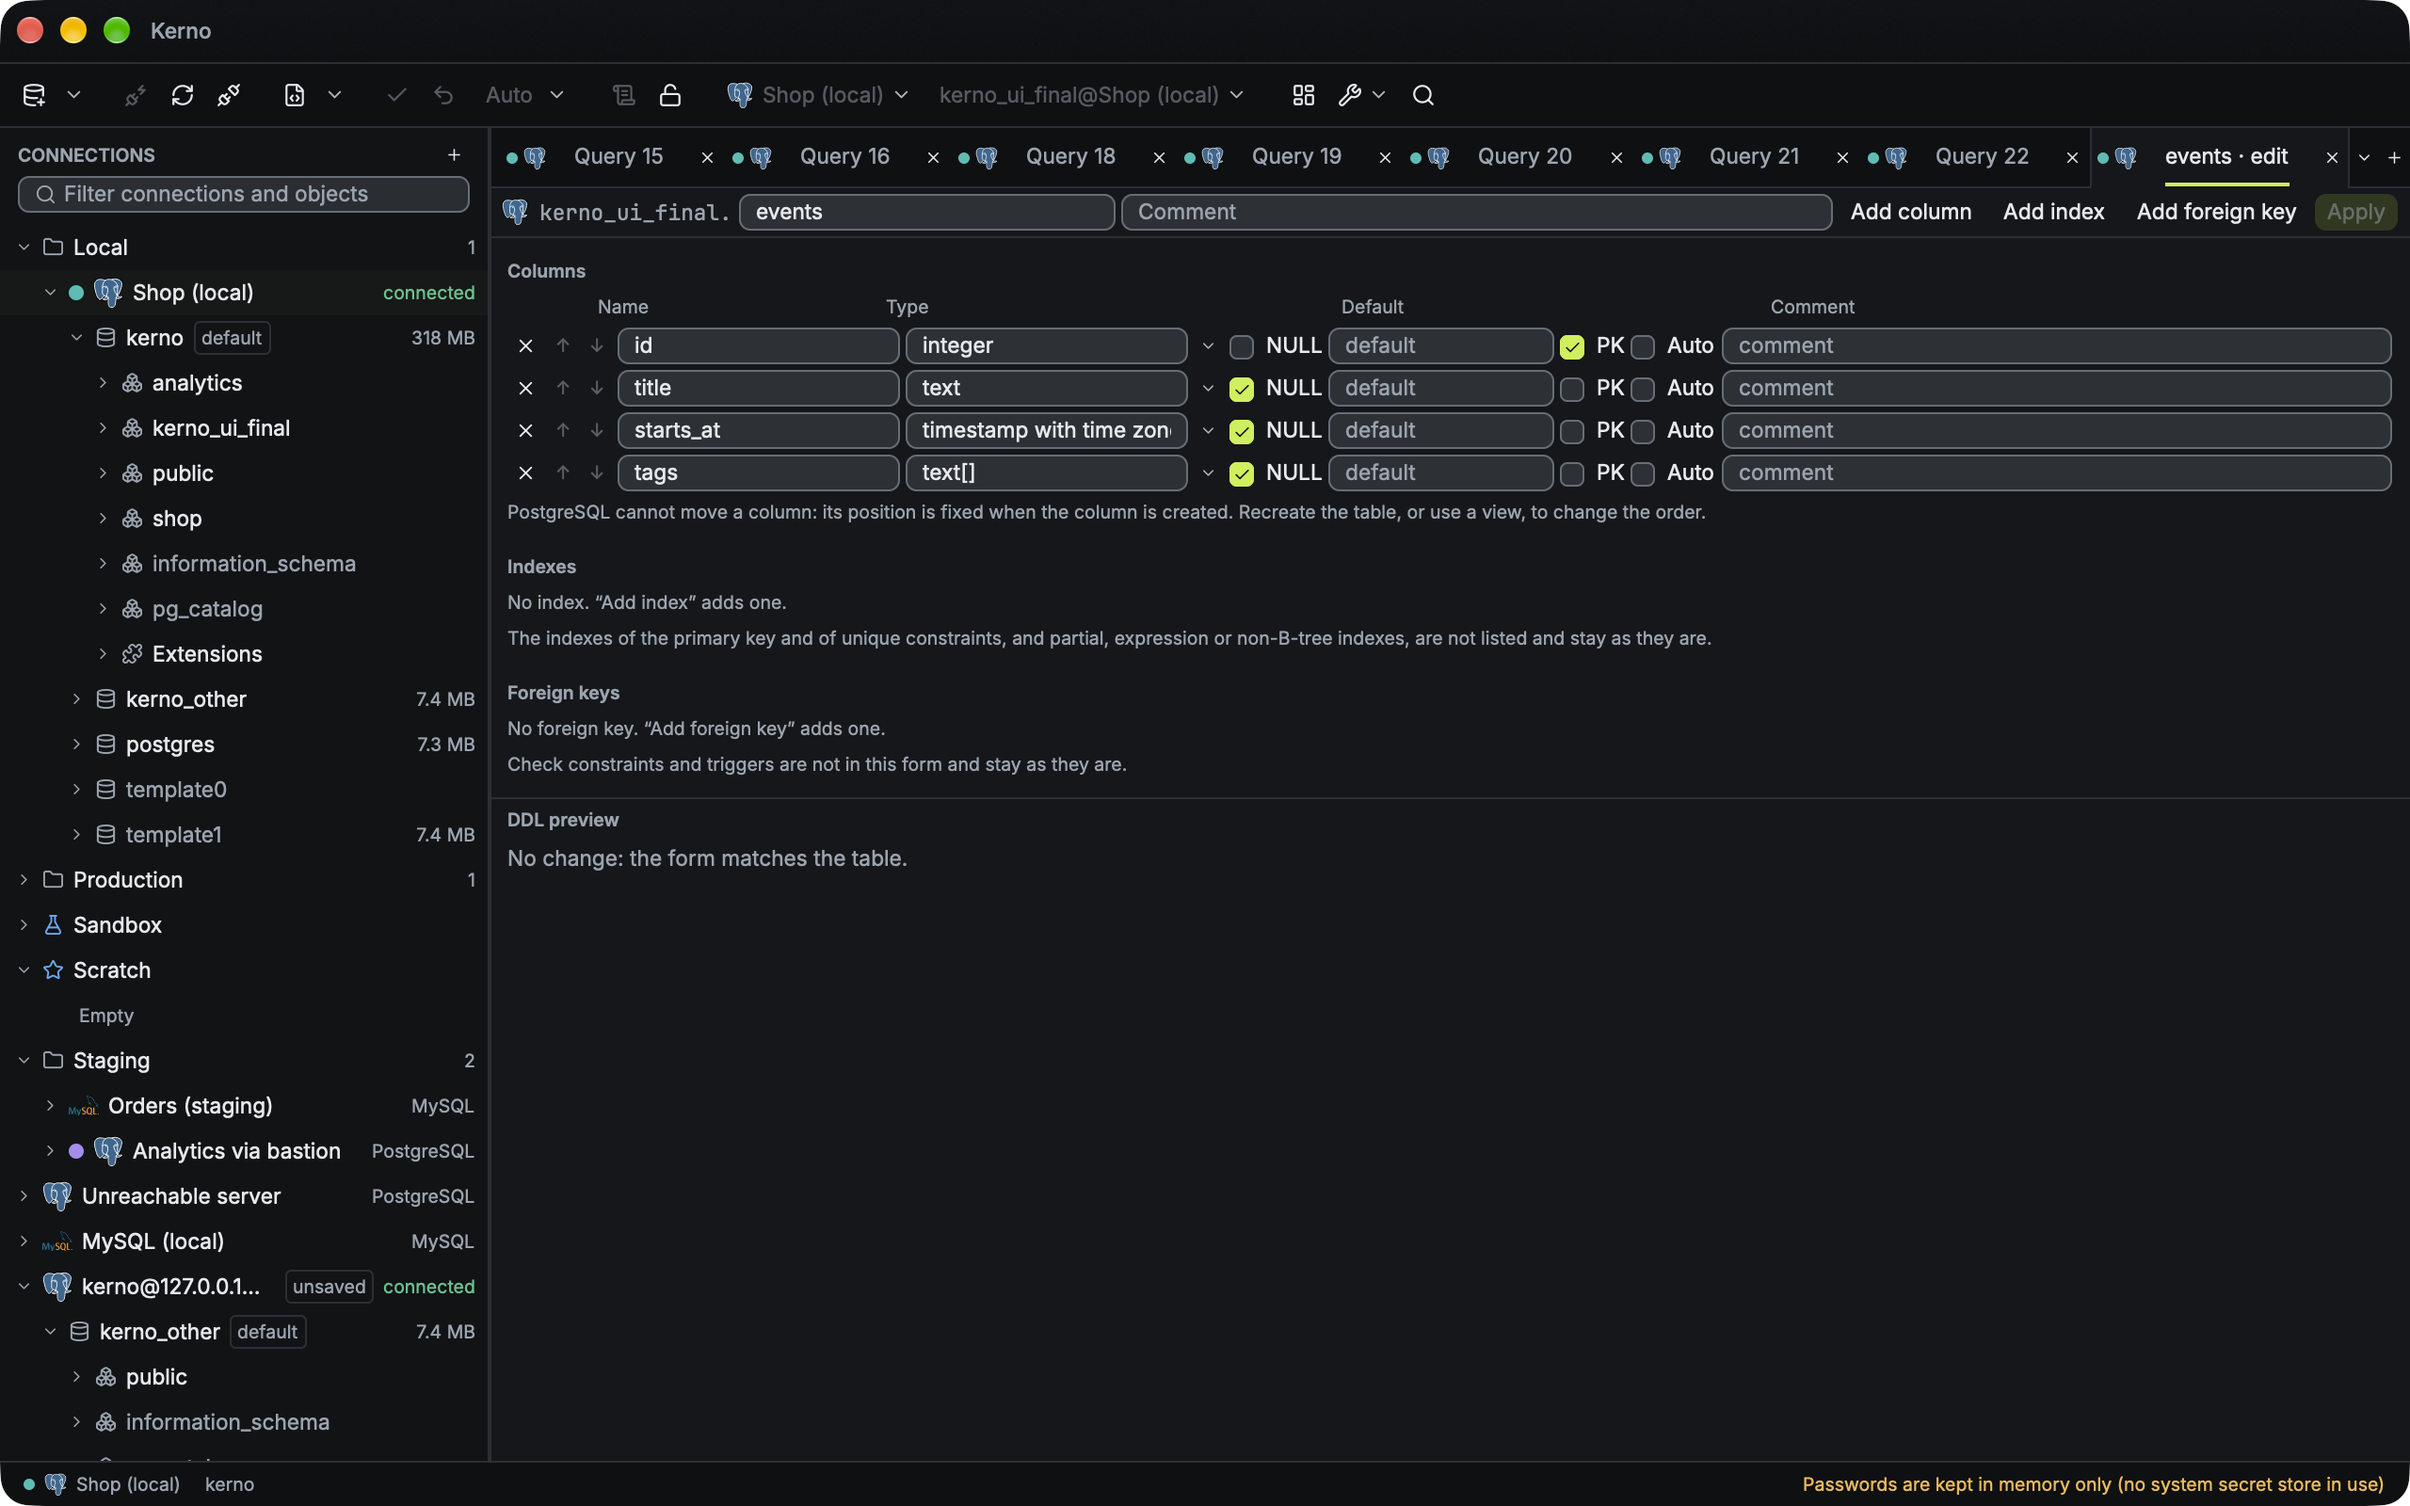
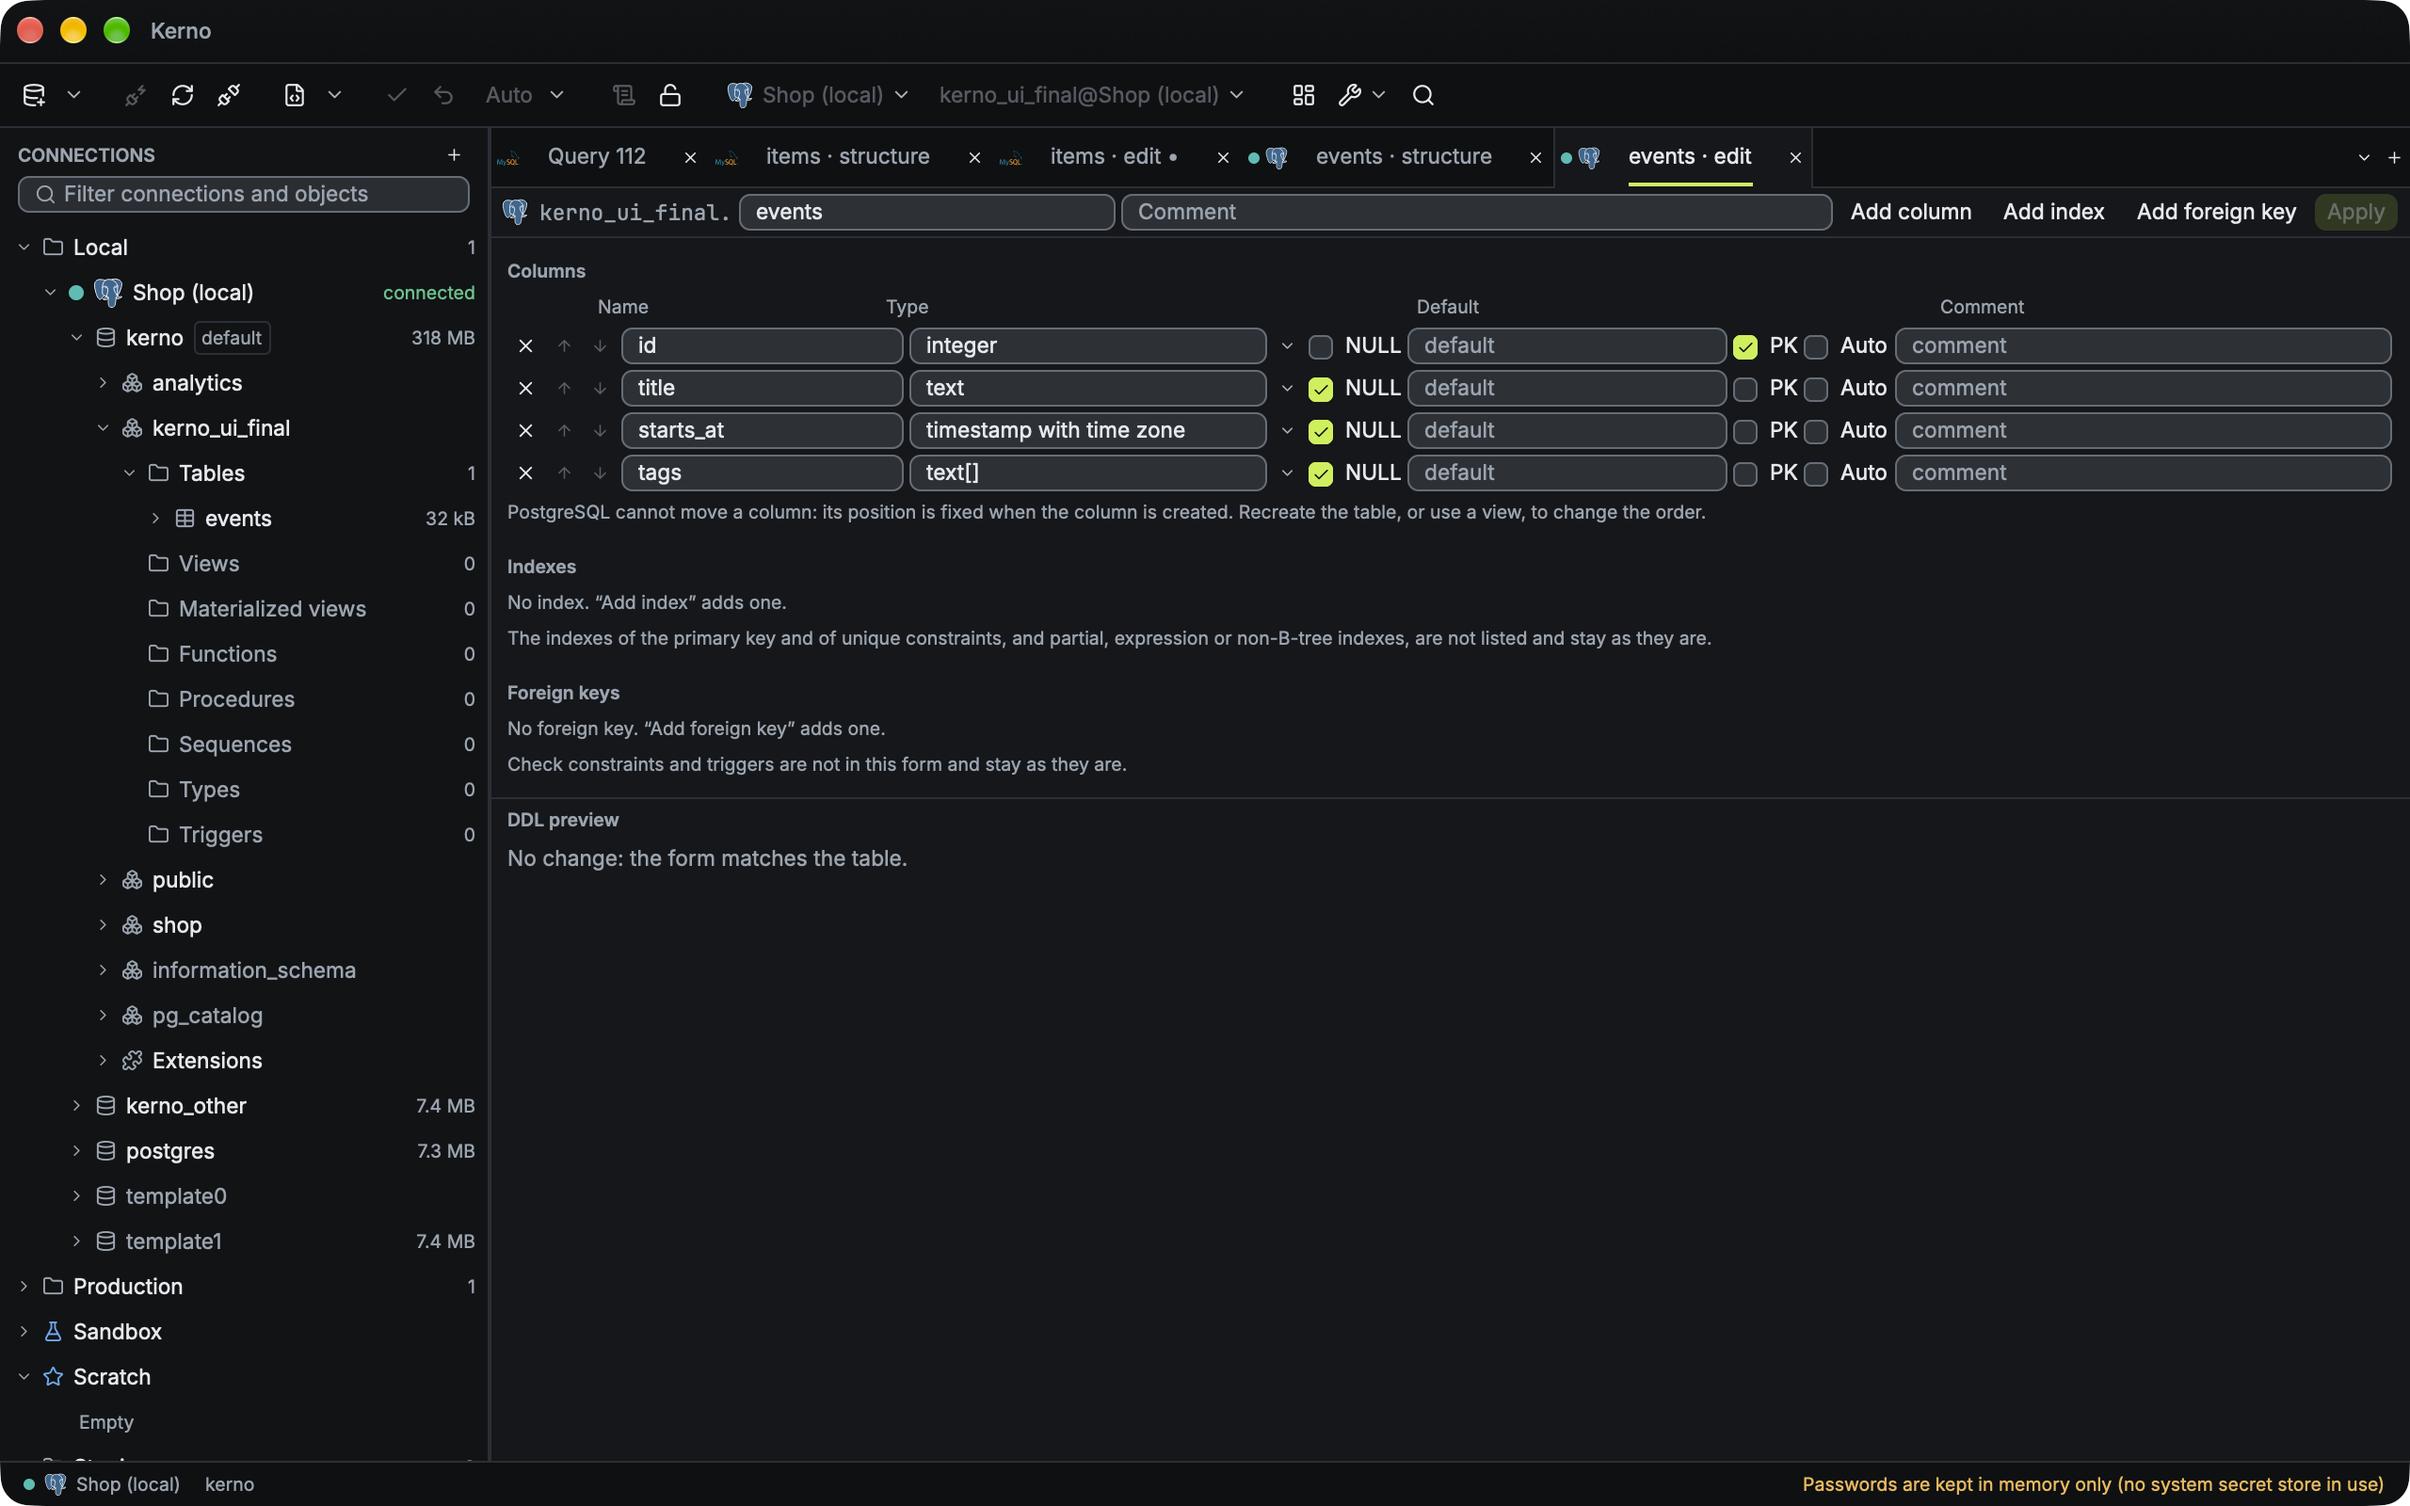
fix(ui): the active side tab is underlined like the strip's, the copy wizard's first column fits its header, plain punctuation in the AI endpoint suggestions; v1.1 captures, second pass
Claude-Session: https://claude.ai/code/session_01NqMSmdUNsq6S4HrmKZnkEG

diff --git a/crates/kerno/src/workspace.rs b/crates/kerno/src/workspace.rs
@@ -3681,13 +3681,13 @@ impl Workspace {
         });
         // The active tab's accent marker under its title: olive on light,
         // Lime on dark (the theme's primary).
-        let marker = if underline && index == self.active_tab {
+        let marker = if index == self.active_tab {
             cx.theme().primary
         } else {
             cx.theme().transparent
         };
-        // In the side list (no underline) the title may be cut: it ends in
-        // an ellipsis, on the element that holds the text.
+        // In the side list (`underline` false) the title may be cut: it ends
+        // in an ellipsis, on the element that holds the text.
         let text = div()
             .when(!underline, |text| text.min_w_0().truncate())
             .child(tab.label(cx));
@@ -3696,7 +3696,10 @@ impl Workspace {
             .h_full()
             .flex()
             .items_center()
-            .when(underline, |title| title.border_b_2().border_color(marker))
+            // The active tab's mark is the same in every layout: a line
+            // under its title (never a bar at the row's edge).
+            .border_b_2()
+            .border_color(marker)
             .when(!underline, |title| title.min_w_0())
             .test_support()
             .context_menu(self.menu(MenuOf::Tab(index), cx))

diff --git a/crates/kerno/src/transfer_dialog.rs b/crates/kerno/src/transfer_dialog.rs
@@ -1375,7 +1375,7 @@ impl TransferDialog {
                     .gap_2()
                     .text_xs()
                     .text_color(theme.muted_foreground)
-                    .child(div().w(px(24.)).child("Copy"))
+                    .child(div().w(px(32.)).flex_none().child("Copy"))
                     .child(div().w(px(200.)).child("Source column"))
                     .child(div().w(px(160.)).child("Target name"))
                     .child(div().w(px(160.)).child("Target type")),
@@ -1398,7 +1398,7 @@ impl TransferDialog {
                                 h_flex()
                                     .gap_2()
                                     .child(
-                                        div().w(px(24.)).child(
+                                        div().w(px(32.)).flex_none().child(
                                             Checkbox::new(("transfer-skip", index))
                                                 .checked(!column.skip)
                                                 .on_click(cx.listener(

diff --git a/crates/kerno/src/ai_view.rs b/crates/kerno/src/ai_view.rs
@@ -1046,7 +1046,7 @@ impl Render for AiSettingsView {
                             Button::new(("ai-suggestion", index))
                                 .ghost()
                                 .xsmall()
-                                .label(SharedString::from(format!("{name} — {address}")))
+                                .label(SharedString::from(format!("{name}: {address}")))
                                 .on_click(cx.listener(move |this, _, window, cx| {
                                     this.set_endpoint(address, window, cx)
                                 }))
